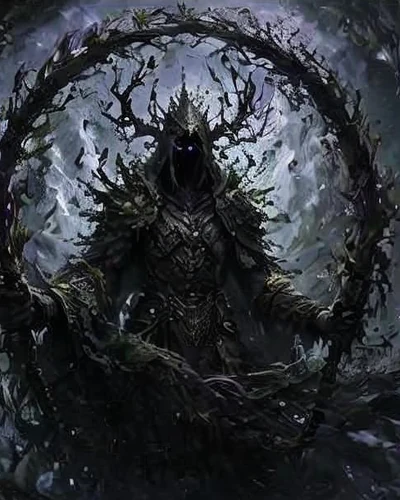
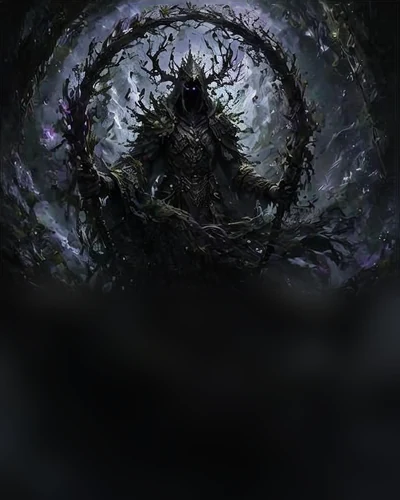
Vael and Oblivia: zoomed-out card art like Nyx

diff --git a/src/ui/components/cardArtFocus.ts b/src/ui/components/cardArtFocus.ts
@@ -106,8 +106,10 @@ export const CARD_ART_FOCUS: Record<string, number> = {
   neu_abyssal_pyre: 42,
   neu_aegis_pilgrim: 22,
   neu_aeon_pale_wanderer: 22,
-  // Full-width art on top, blurred fill below (src/assets/cards/neu_nyx_lantern_of_nul.webp).
+  // Lamplighter legends: full-width art on top, blurred fill below.
   neu_nyx_lantern_of_nul: 0,
+  neu_oblivia_keeper_of_the_last_page: 0,
+  neu_vael_the_void_knell: 0,
   neu_ashroad_sellsword: 20,
   neu_bog_toadcaller: 30,
   neu_bounty_stalker: 32,
